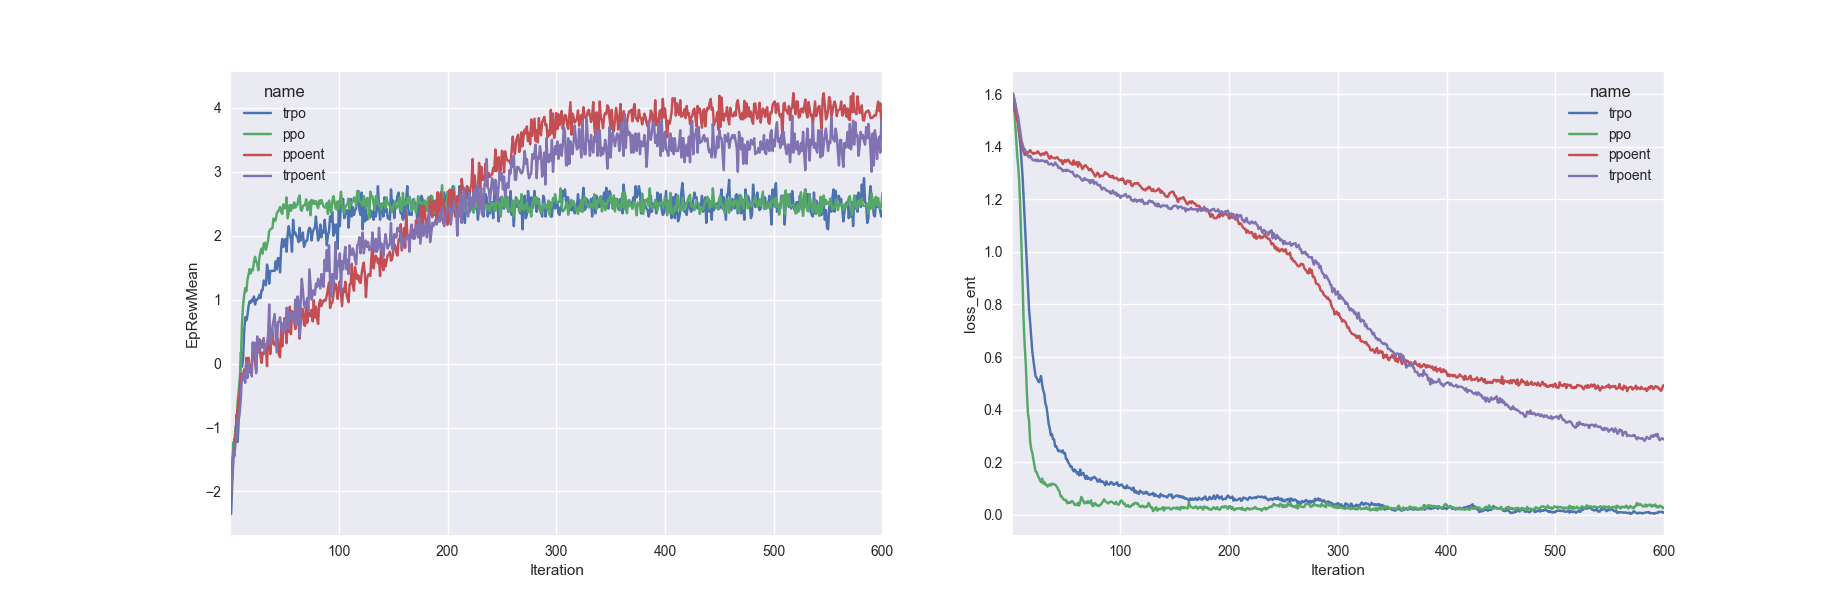
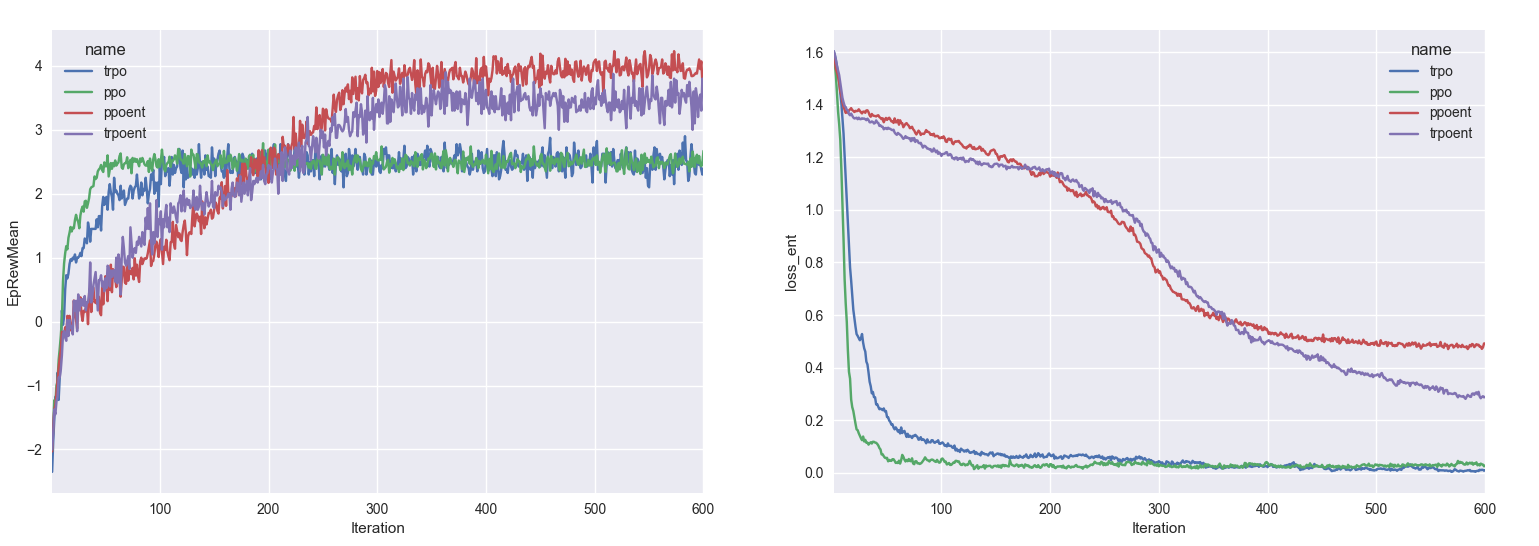
updates

diff --git a/baselines/plot/runningplot.py b/baselines/plot/runningplot.py
@@ -18,7 +18,7 @@ path3 = '/Users/zhirong/Documents/Masterthesis-code/tmp/RockSample/ppo5-5000-04-
 path4 = '/Users/zhirong/Documents/Masterthesis-code/tmp/RockSample/ppoent5-5000-04-13-02-09-29/progress.csv'
 
 
-fig, axes = plt.subplots(4, 2, figsize=(16,8))
+fig, axes = plt.subplots(4, 2, figsize=(16,10))
 axes = axes.flatten()
 
 def plots(i):
